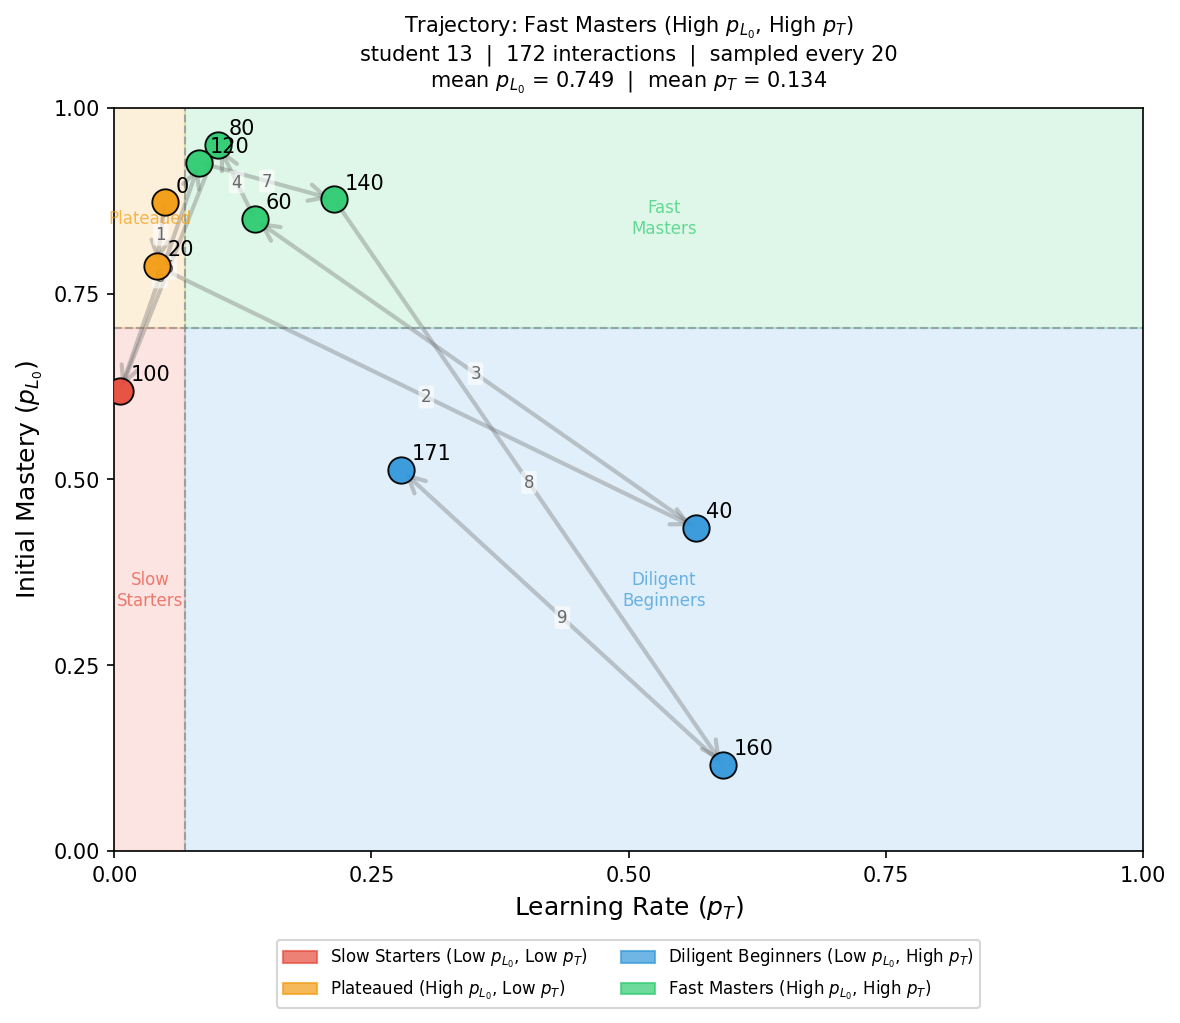
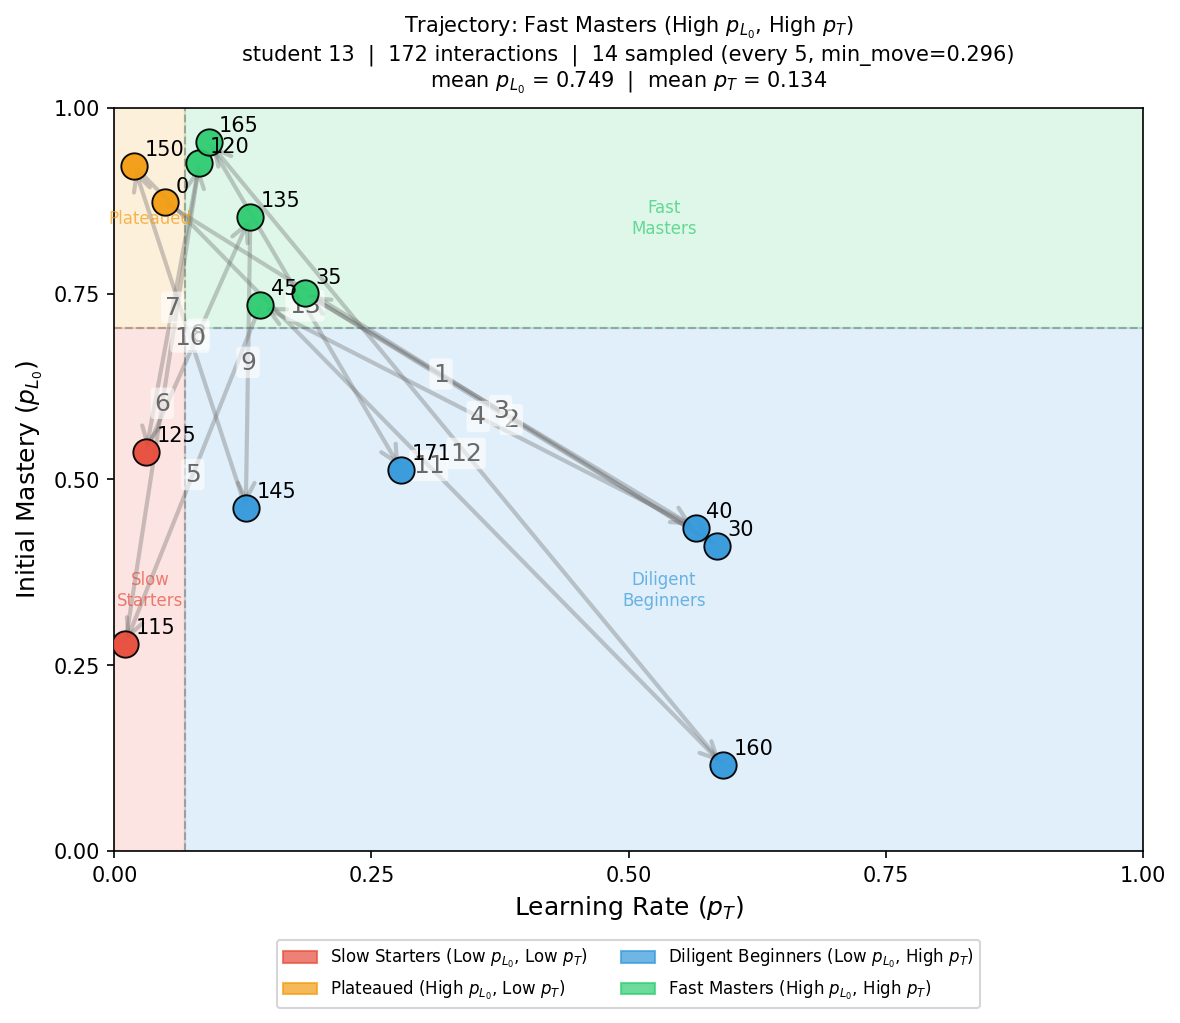
plots: animated gifs

diff --git a/examples/results/generate_roster_plots_gtransformer.py b/examples/results/generate_roster_plots_gtransformer.py
@@ -11,6 +11,7 @@ import numpy as np
 import matplotlib.pyplot as plt
 import matplotlib.patches as mpatches
 from matplotlib.patches import Rectangle
+from matplotlib.animation import FuncAnimation, PillowWriter
 from mpl_toolkits.mplot3d import Axes3D
 import seaborn as sns
 
@@ -31,14 +32,25 @@ def main():
     parser = argparse.ArgumentParser()
     parser.add_argument('--run_dir', required=True, help="Path to experiment directory containing traj_*.csv files")
     parser.add_argument('--output_dir', default=None, help="Where to save plot")
-    parser.add_argument('--timestep', type=int, default=10,
-                        help="Subsample: keep every N-th interaction for plotting (default: 10)")
+    parser.add_argument('--timestep', type=int, default=5,
+                        help="Subsample: keep every N-th interaction as a candidate before min_move filtering (default: 5)")
     parser.add_argument('--min_interactions', type=int, default=20,
                         help="Minimum interactions required for a student to be a quadrant representative (default: 20)")
     parser.add_argument('--weight_centroid', type=float, default=0.5,
                         help="Weight for centroid proximity in [0,1]; complement goes to interaction count (default: 0.5)")
     parser.add_argument('--count_iqr_threshold', type=float, default=1.5,
                         help="IQR multiplier for outlier detection on interaction count; students above Q3 + k*IQR are excluded (default: 1.5)")
+    parser.add_argument('--min_move', type=float, default=None,
+                        help="Override the auto-computed min_move threshold (Euclidean distance in [0,1]x[0,1]). "
+                             "If not set, it is derived so that the most-active representative has at most --max_points points.")
+    parser.add_argument('--max_points', type=int, default=20,
+                        help="Target maximum number of sampled points per plot; used to auto-compute min_move threshold (default: 20)")
+    parser.add_argument('--gif', action='store_true',
+                        help="Also save an animated GIF showing trajectory progression")
+    parser.add_argument('--gif_fps', type=int, default=2,
+                        help="Frames per second for the GIF (default: 2)")
+    parser.add_argument('--gif_hold', type=int, default=4,
+                        help="Extra repeated frames on the final frame so the end is visible (default: 4)")
     args = parser.parse_args()
     
     output_dir = args.output_dir if args.output_dir else args.run_dir
@@ -149,6 +161,49 @@ def main():
     ]
     quad_names = ['slow_starters', 'plateaued', 'diligent_beginners', 'fast_masters']
 
+    def sample_stride_then_filter(data, rate_c, init_c, stride, min_d):
+        """Take every `stride`-th interaction, then drop any that haven't moved
+        >= min_d from the previously kept point. First and last are always kept."""
+        candidates = list(range(0, len(data), stride))
+        if candidates[-1] != len(data) - 1:
+            candidates.append(len(data) - 1)
+        sel = [candidates[0]]
+        last_x = data[rate_c].iloc[candidates[0]]
+        last_y = data[init_c].iloc[candidates[0]]
+        for j in candidates[1:]:
+            dx = data[rate_c].iloc[j] - last_x
+            dy = data[init_c].iloc[j] - last_y
+            if (dx*dx + dy*dy) ** 0.5 >= min_d or j == candidates[-1]:
+                sel.append(j)
+                last_x = data[rate_c].iloc[j]
+                last_y = data[init_c].iloc[j]
+        return sel
+
+    # Auto-compute the global min_move threshold via binary search so that the
+    # representative with the most movement has at most --max_points plotted points.
+    if args.min_move is not None:
+        min_move = args.min_move
+        print(f"Using user-specified min_move={min_move:.4f}")
+    else:
+        def _max_count(min_d):
+            mx = 0
+            for uid in representatives:
+                fs = df[df['student_id'] == uid].reset_index(drop=True).iloc[:global_max_interactions]
+                mx = max(mx, len(sample_stride_then_filter(fs, rate_col, init_col, args.timestep, min_d)))
+            return mx
+        if _max_count(0.0) <= args.max_points:
+            min_move = 0.0
+        else:
+            lo, hi = 0.0, 1.4143  # sqrt(2)
+            for _ in range(60):
+                mid = (lo + hi) / 2.0
+                if _max_count(mid) <= args.max_points:
+                    hi = mid
+                else:
+                    lo = mid
+            min_move = hi
+        print(f"Auto-computed min_move={min_move:.4f} (max_points={args.max_points})")
+
     # --- Individual 2D trajectory plot per representative student ---
     for i, uid in enumerate(representatives):
         full_subset = df[df['student_id'] == uid].reset_index(drop=True)
@@ -160,10 +215,7 @@ def main():
         full_subset = full_subset.copy()
         full_subset['pt_quad'] = full_subset.apply(row_quadrant, axis=1)
 
-        # Sample every args.timestep interactions; always include the last point
-        indices = list(range(0, len(full_subset), args.timestep))
-        if (len(full_subset) - 1) not in indices:
-            indices.append(len(full_subset) - 1)
+        indices = sample_stride_then_filter(full_subset, rate_col, init_col, args.timestep, min_move)
         subset = full_subset.iloc[indices].reset_index(drop=True)
 
         quad_colors = ['#e74c3c', '#f39c12', '#3498db', '#2ecc71']
@@ -190,7 +242,7 @@ def main():
                                         mutation_scale=20),
                         zorder=2)
             mx, my = (x0 + x1) / 2, (y0 + y1) / 2
-            ax.text(mx, my, str(k + 1), fontsize=8, color='dimgrey',
+            ax.text(mx, my, str(k + 1), fontsize=12, color='dimgrey',
                     ha='center', va='center', zorder=3,
                     bbox=dict(boxstyle='round,pad=0.15', fc='white', ec='none', alpha=0.6))
 
@@ -231,7 +283,7 @@ def main():
         mean_t  = full_subset[rate_col].mean()
         ax.set_title(
             f'Trajectory: {quad_labels[i]}\n'
-            f'student {uid}  |  {len(full_subset)} interactions  |  sampled every {args.timestep}\n'
+            f'student {uid}  |  {len(full_subset)} interactions  |  {len(subset)} sampled (every {args.timestep}, min_move={min_move:.3f})\n'
             f'mean $p_{{L_0}}$ = {mean_l0:.3f}  |  mean $p_T$ = {mean_t:.3f}',
             fontsize=10, pad=10
         )
@@ -240,7 +292,85 @@ def main():
         out_path = os.path.join(output_dir, f"roster_3d_{quad_names[i]}_893468.png")
         plt.savefig(out_path, dpi=150, bbox_inches='tight')
         plt.close()
-        print(f"Saved {quad_names[i]}: {len(subset)} points (every {args.timestep}) → {out_path}")
+        print(f"Saved {quad_names[i]}: {len(subset)} points (every {args.timestep}, min_move={min_move:.3f}) → {out_path}")
+
+        # --- Animated GIF ---
+        if args.gif:
+            n_pts = len(subset)
+            # Total frames: one per point reveal, plus hold frames at the end
+            total_frames = n_pts + args.gif_hold
+
+            fig_g, ax_g = plt.subplots(figsize=(8, 7))
+
+            def _draw_static_bg(ax_):
+                ax_.add_patch(Rectangle((0.0, 0.0),    t_med,        l0_med,        color=quad_colors[0], alpha=0.15, zorder=0))
+                ax_.add_patch(Rectangle((0.0, l0_med), t_med,        1.0 - l0_med,  color=quad_colors[1], alpha=0.15, zorder=0))
+                ax_.add_patch(Rectangle((t_med, 0.0),  1.0 - t_med,  l0_med,        color=quad_colors[2], alpha=0.15, zorder=0))
+                ax_.add_patch(Rectangle((t_med, l0_med), 1.0 - t_med, 1.0 - l0_med, color=quad_colors[3], alpha=0.15, zorder=0))
+                ax_.axvline(t_med,  color='grey', linewidth=1.0, linestyle='--', alpha=0.6, zorder=1)
+                ax_.axhline(l0_med, color='grey', linewidth=1.0, linestyle='--', alpha=0.6, zorder=1)
+                ax_.text(t_med / 2,       l0_med / 2,       'Slow\nStarters',      ha='center', va='center', fontsize=8, color=quad_colors[0], alpha=0.7)
+                ax_.text(t_med / 2,       (l0_med + 1) / 2,  'Plateaued',           ha='center', va='center', fontsize=8, color=quad_colors[1], alpha=0.7)
+                ax_.text((t_med + 1) / 2, l0_med / 2,        'Diligent\nBeginners', ha='center', va='center', fontsize=8, color=quad_colors[2], alpha=0.7)
+                ax_.text((t_med + 1) / 2, (l0_med + 1) / 2,  'Fast\nMasters',       ha='center', va='center', fontsize=8, color=quad_colors[3], alpha=0.7)
+                ax_.set_xlim(0.0, 1.0)
+                ax_.set_ylim(0.0, 1.0)
+                ax_.set_xlabel('Learning Rate ($p_T$)', fontsize=12)
+                ax_.set_ylabel('Initial Mastery ($p_{L_0}$)', fontsize=12)
+                ax_.set_xticks([0.0, 0.25, 0.5, 0.75, 1.0])
+                ax_.set_yticks([0.0, 0.25, 0.5, 0.75, 1.0])
+                legend_handles_ = [mpatches.Patch(color=quad_colors[q], alpha=0.7, label=quad_labels[q]) for q in range(4)]
+                ax_.legend(handles=legend_handles_, fontsize=8, framealpha=0.8,
+                           loc='upper center', bbox_to_anchor=(0.5, -0.12), ncol=2, borderaxespad=0)
+
+            _draw_static_bg(ax_g)
+
+            def _animate(frame):
+                # Clamp to last data frame during hold period
+                f = min(frame, n_pts - 1)
+                ax_g.cla()
+                _draw_static_bg(ax_g)
+                revealed = subset.iloc[:f + 1]
+                r_indices = indices[:f + 1]
+                # Past points (faded)
+                for k in range(f):
+                    x0 = subset[rate_col].iloc[k];  y0 = subset[init_col].iloc[k]
+                    x1 = subset[rate_col].iloc[k+1]; y1 = subset[init_col].iloc[k+1]
+                    ax_g.annotate('', xy=(x1, y1), xytext=(x0, y0),
+                                  arrowprops=dict(arrowstyle='->', color='dimgrey', lw=2.0, alpha=0.25, mutation_scale=20), zorder=2)
+                    mx, my = (x0 + x1) / 2, (y0 + y1) / 2
+                    ax_g.text(mx, my, str(k + 1), fontsize=12, color='dimgrey', ha='center', va='center', zorder=3,
+                              bbox=dict(boxstyle='round,pad=0.15', fc='white', ec='none', alpha=0.6))
+                # Past points
+                for k in range(f):
+                    row_ = revealed.iloc[k]
+                    ax_g.scatter(row_[rate_col], row_[init_col],
+                                 color=quad_colors[int(row_['pt_quad'])], s=120, edgecolors='k',
+                                 linewidths=0.7, zorder=4, alpha=0.5)
+                    ax_g.annotate(str(r_indices[k]),
+                                  xy=(row_[rate_col], row_[init_col]),
+                                  xytext=(5, 5), textcoords='offset points',
+                                  fontsize=10, color='grey', zorder=5)
+                # Current (highlighted) point
+                cur = revealed.iloc[f]
+                ax_g.scatter(cur[rate_col], cur[init_col],
+                             color=quad_colors[int(cur['pt_quad'])], s=260, edgecolors='k',
+                             linewidths=1.5, zorder=6, alpha=1.0)
+                ax_g.annotate(str(r_indices[f]),
+                              xy=(cur[rate_col], cur[init_col]),
+                              xytext=(6, 6), textcoords='offset points',
+                              fontsize=11, color='black', fontweight='bold', zorder=7)
+                ax_g.set_title(
+                    f'Trajectory: {quad_labels[i]}\n'
+                    f'student {uid}  |  step {r_indices[f]} / {indices[-1]}',
+                    fontsize=10, pad=10
+                )
+
+            anim = FuncAnimation(fig_g, _animate, frames=total_frames, interval=1000 // args.gif_fps, repeat=False)
+            gif_path = os.path.join(output_dir, f"roster_traj_{quad_names[i]}_893468.gif")
+            anim.save(gif_path, writer=PillowWriter(fps=args.gif_fps))
+            plt.close(fig_g)
+            print(f"Saved GIF {quad_names[i]}: {total_frames} frames → {gif_path}")
 
     # --- Combined plot (kept for backward compatibility) ---
     fig = plt.figure(figsize=(14, 10))
@@ -249,9 +379,7 @@ def main():
     for i, uid in enumerate(representatives):
         full_subset = df[df['student_id'] == uid].reset_index(drop=True)
         full_subset = full_subset.iloc[:global_max_interactions]
-        indices = list(range(0, len(full_subset), args.timestep))
-        if (len(full_subset) - 1) not in indices:
-            indices.append(len(full_subset) - 1)
+        indices = sample_stride_then_filter(full_subset, rate_col, init_col, args.timestep, min_move)
         subset = full_subset.iloc[indices].reset_index(drop=True)
         t = np.array(indices)
 
